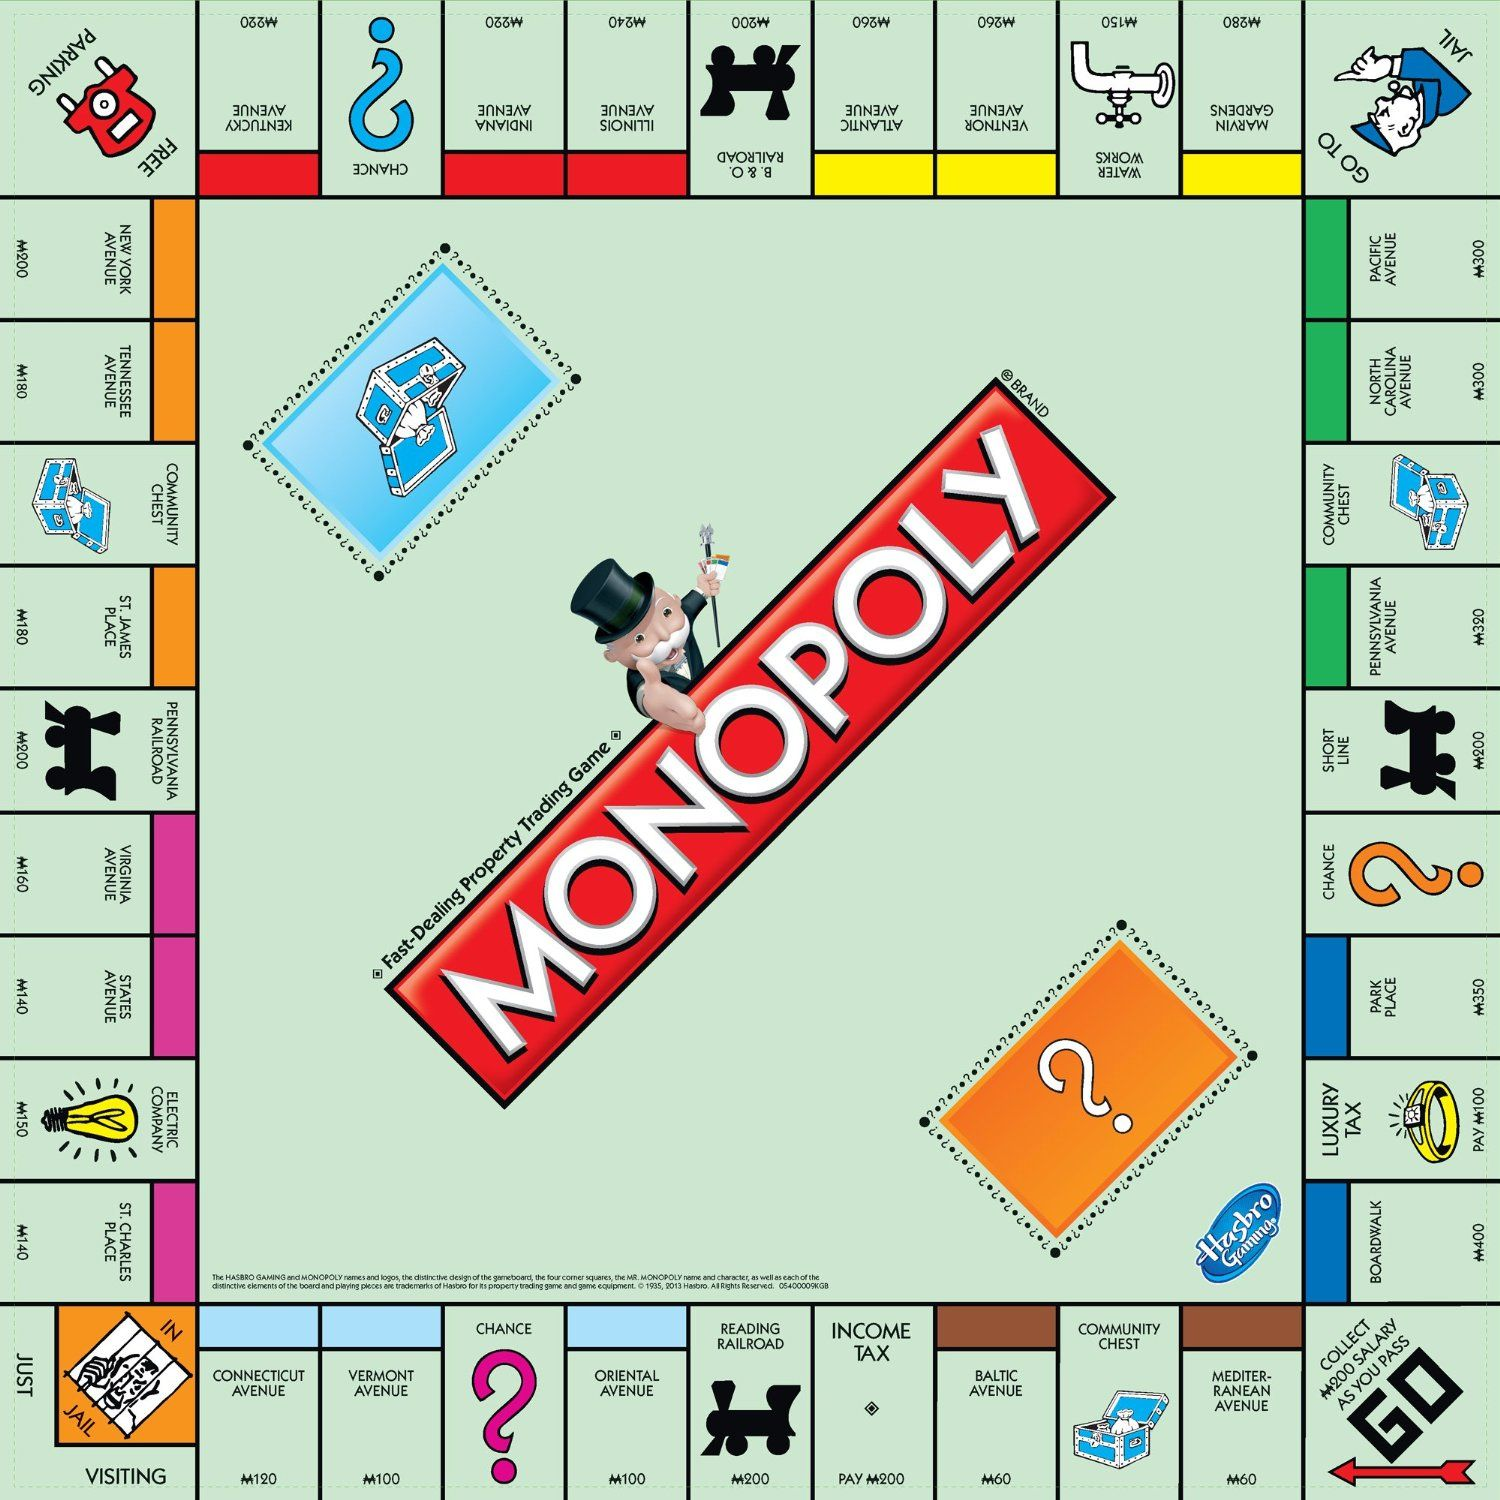
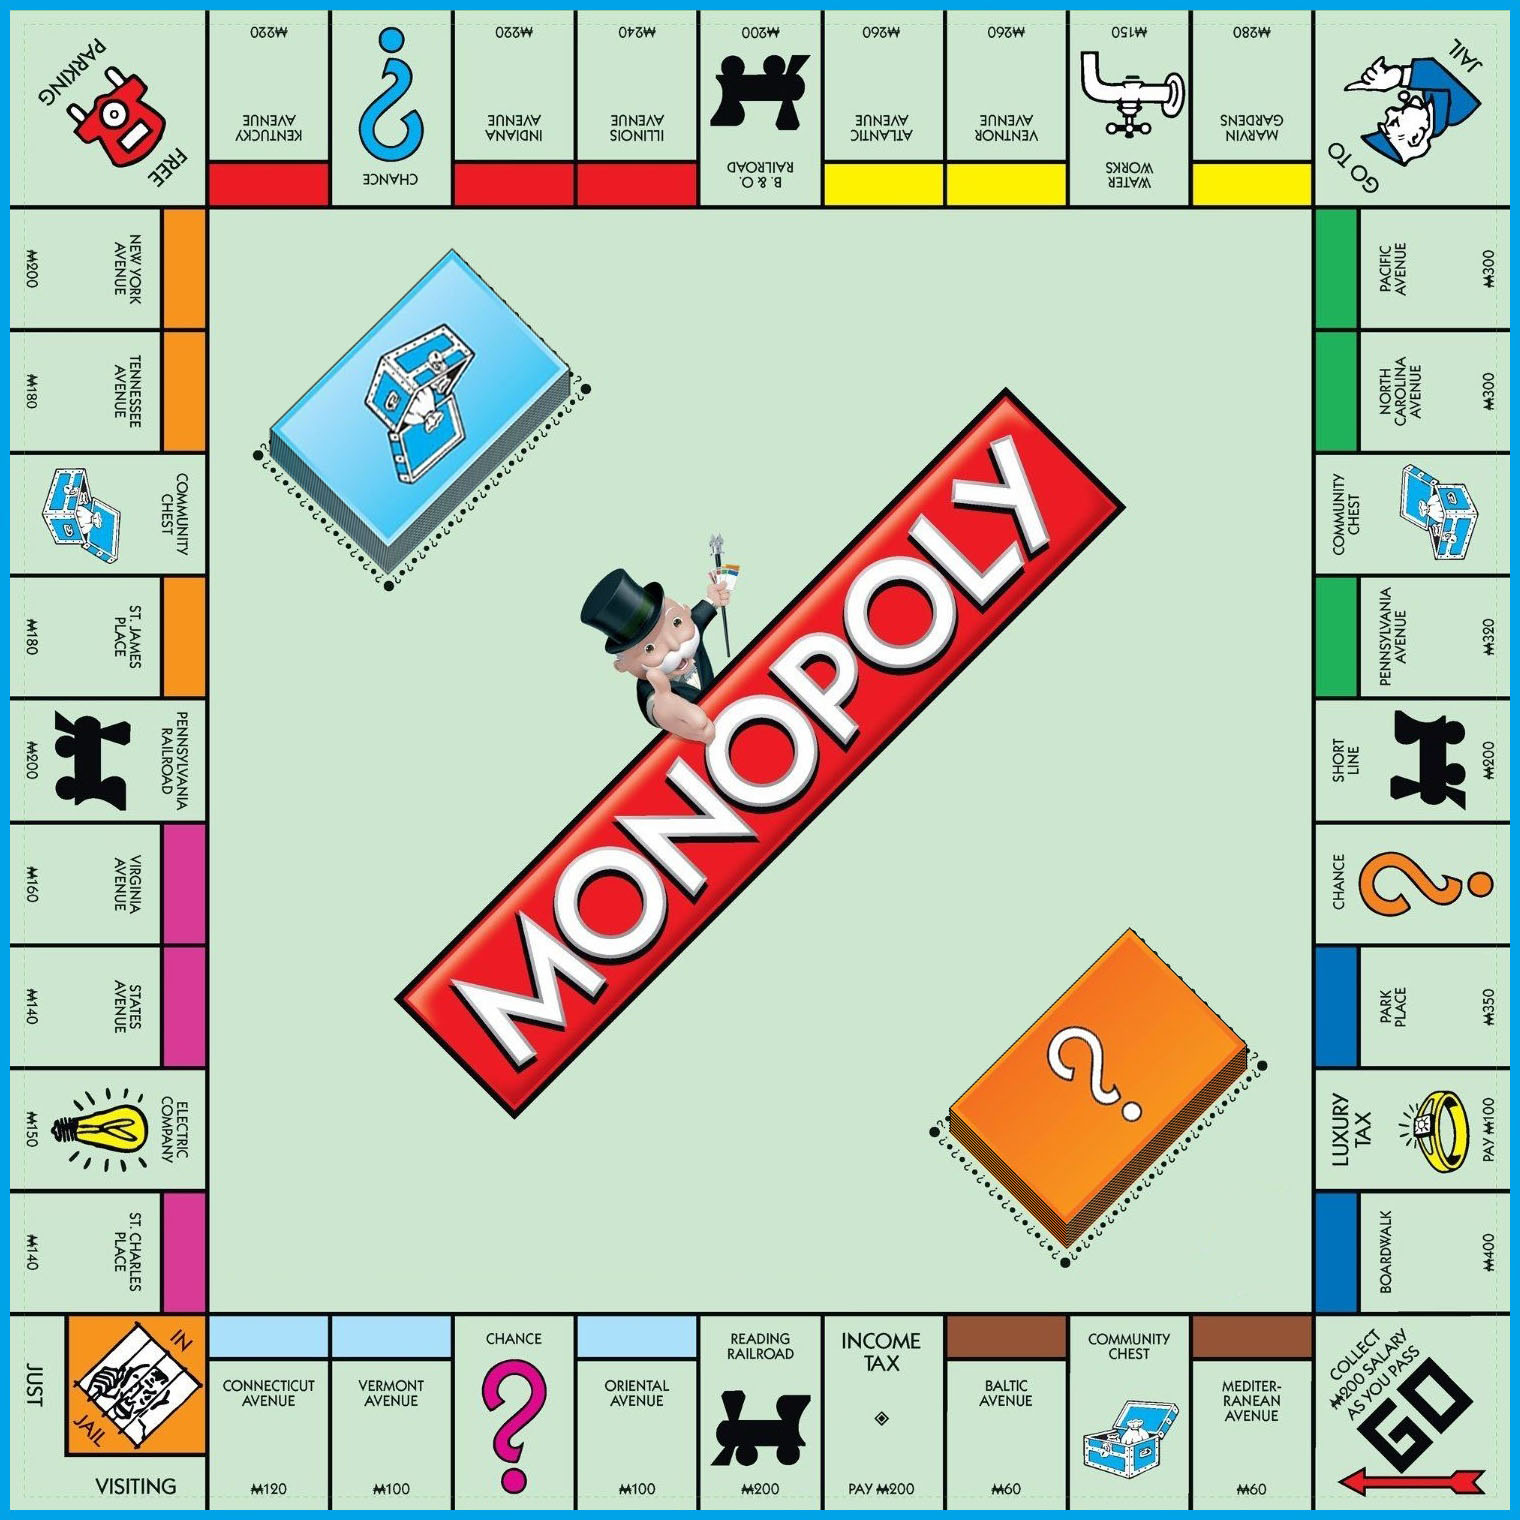
position shift

diff --git a/client/src/styles/LobbyPage.css b/client/src/styles/LobbyPage.css
@@ -1,7 +1,11 @@
+#board-container {
+    transform: translateX(-25%);
+}
+
 #AtlanticAvenue {
     position: absolute;
     width: 75px;
-    height: 120px;
+    height: 123px;
     top: 0%;
     left: 54%;
 }
@@ -13,9 +17,9 @@
 #BandORailroad {
     position: absolute;
     width: 75px;
-    height: 120px;
+    height: 123px;
     top: 0%;
-    left: 46%;
+    left: 45.9%;
 }
 
 #BandORailroad:hover {
@@ -25,9 +29,9 @@
 #BalticAvenue {
     position: absolute;
     width: 75px;
-    height: 120px;
-    top: 86.5%;
-    left: 62.2%;
+    height: 123px;
+    top: 86%;
+    left: 62%;
 }
 
 #BalticAvenue:hover {
@@ -36,10 +40,10 @@
 
 #Boardwalk {
     position: absolute;
-    width: 120px;
+    width: 123px;
     height: 75px;
-    top: 78.2%;
-    left: 87%;
+    top: 77.8%;
+    left: 86.3%;
 }
 
 #Boardwalk:hover {
@@ -49,9 +53,9 @@
 #ConnecticutAvenue {
     position: absolute;
     width: 75px;
-    height: 120px;
-    top: 86.5%;
-    left: 13.1%;
+    height: 123px;
+    top: 86%;
+    left: 13.5%;
 }
 
 #ConnecticutAvenue:hover {
@@ -60,9 +64,9 @@
 
 #ElectricCompany {
     position: absolute;
-    width: 120px;
+    width: 123px;
     height: 75px;
-    top: 70%;
+    top: 69.7%;
     left: 0%;
 }
 
@@ -73,9 +77,9 @@
 #IllinoisAvenue {
     position: absolute;
     width: 75px;
-    height: 120px;
+    height: 123px;
     top: 0%;
-    left: 37.5%;
+    left: 37.7%;
 }
 
 #IllinoisAvenue:hover {
@@ -85,9 +89,9 @@
 #IndianaAvenue {
     position: absolute;
     width: 75px;
-    height: 120px;
+    height: 123px;
     top: 0%;
-    left: 29.5%;
+    left: 29.7%;
 }
 
 #IndianaAvenue:hover {
@@ -97,9 +101,9 @@
 #KentuckyAvenue {
     position: absolute;
     width: 75px;
-    height: 120px;
+    height: 123px;
     top: 0%;
-    left: 13%;
+    left: 13.5%;
 }
 
 #KentuckyAvenue:hover {
@@ -109,9 +113,9 @@
 #MarvinGardens {
     position: absolute;
     width: 75px;
-    height: 120px;
+    height: 123px;
     top: 0%;
-    left: 78.5%;
+    left: 78.2%;
 }
 
 #MarvinGardens:hover {
@@ -121,9 +125,9 @@
 #MediterraneanAvenue {
     position: absolute;
     width: 75px;
-    height: 120px;
-    top: 86.5%;
-    left: 78.5%;
+    height: 123px;
+    top: 86%;
+    left: 78.3%;
 }
 
 #MediterraneanAvenue:hover {
@@ -132,9 +136,9 @@
 
 #NewYorkAvenue {
     position: absolute;
-    width: 120px;
+    width: 123px;
     height: 75px;
-    top: 13%;
+    top: 13.4%;
     left: 0%;
 }
 
@@ -144,10 +148,10 @@
 
 #NorthCarolinaAvenue {
     position: absolute;
-    width: 120px;
+    width: 123px;
     height: 75px;
-    top: 21.1%;
-    left: 87%;
+    top: 21.5%;
+    left: 86.3%;
 }
 
 #NorthCarolinaAvenue:hover {
@@ -157,9 +161,9 @@
 #OrientalAvenue {
     position: absolute;
     width: 75px;
-    height: 120px;
-    top: 86.5%;
-    left: 37.5%;
+    height: 123px;
+    top: 86%;
+    left: 37.8%;
 }
 
 #OrientalAvenue:hover {
@@ -168,10 +172,10 @@
 
 #PacificAvenue {
     position: absolute;
-    width: 120px;
+    width: 123px;
     height: 75px;
-    top: 13%;
-    left: 87%;
+    top: 13.5%;
+    left: 86.3%;
 }
 
 #PacificAvenue:hover {
@@ -180,10 +184,10 @@
 
 #ParkPlace {
     position: absolute;
-    width: 120px;
+    width: 123px;
     height: 75px;
-    top: 62%;
-    left: 87%;
+    top: 61.8%;
+    left: 86.3%;
 }
 
 #ParkPace:hover {
@@ -192,10 +196,10 @@
 
 #PennsylvaniaAvenue {
     position: absolute;
-    width: 120px;
+    width: 123px;
     height: 75px;
-    top: 37.5%;
-    left: 87%;
+    top: 37.6%;
+    left: 86.3%;
 }
 
 #PennsylvaniaAvenue:hover {
@@ -204,9 +208,9 @@
 
 #PennsylvaniaRailroad {
     position: absolute;
-    width: 120px;
+    width: 123px;
     height: 75px;
-    top: 45.5%;
+    top: 45.6%;
     left: 0%;
 }
 
@@ -217,8 +221,8 @@
 #ReadingRailroad {
     position: absolute;
     width: 75px;
-    height: 120px;
-    top: 86.5%;
+    height: 123px;
+    top: 86%;
     left: 45.9%;
 }
 
@@ -228,10 +232,10 @@
 
 #ShortLineRailroad {
     position: absolute;
-    width: 120px;
+    width: 123px;
     height: 75px;
     top: 45.5%;
-    left: 87%;
+    left: 86.3%;
 }
 
 #ShortLineRailroad:hover {
@@ -240,9 +244,9 @@
 
 #StCharlesPlace {
     position: absolute;
-    width: 120px;
+    width: 123px;
     height: 75px;
-    top: 78.2%;
+    top: 77.8%;
     left: 0%;
 }
 
@@ -252,7 +256,7 @@
 
 #StJamesPlace {
     position: absolute;
-    width: 120px;
+    width: 123px;
     height: 75px;
     top: 37.5%;
     left: 0%;
@@ -264,9 +268,9 @@
 
 #StatesAvenue {
     position: absolute;
-    width: 120px;
+    width: 123px;
     height: 75px;
-    top: 62%;
+    top: 61.8%;
     left: 0%;
 }
 
@@ -276,9 +280,9 @@
 
 #TennesseeAvenue {
     position: absolute;
-    width: 120px;
+    width: 123px;
     height: 75px;
-    top: 21.2%;
+    top: 21.5%;
     left: 0%;
 }
 
@@ -289,9 +293,9 @@
 #VentnorAvenue {
     position: absolute;
     width: 75px;
-    height: 120px;
+    height: 123px;
     top: 0%;
-    left: 62.3%;
+    left: 62%;
 }
 
 #VentnorAvenue:hover {
@@ -301,9 +305,9 @@
 #VermontAvenue {
     position: absolute;
     width: 75px;
-    height: 120px;
-    top: 86.5%;
-    left: 21.2%;
+    height: 123px;
+    top: 86%;
+    left: 21.5%;
 }
 
 #VermontAvenue:hover {
@@ -312,9 +316,9 @@
 
 #VirginiaAvenue {
     position: absolute;
-    width: 120px;
+    width: 123px;
     height: 75px;
-    top: 53.8%;
+    top: 53.7%;
     left: 0%;
 }
 
@@ -325,9 +329,9 @@
 #WaterWorks {
     position: absolute;
     width: 75px;
-    height: 120px;
+    height: 123px;
     top: 0%;
-    left: 70.4%;
+    left: 70.1%;
 }
 
 #WaterWorks:hover {

diff --git a/client/src/components/LobbyPage.js b/client/src/components/LobbyPage.js
@@ -56,7 +56,7 @@ const Lobby = () => {
                     <div className="row" style={{ width: "inherit" }}>
                         <div className="col s12" style={{ display: "flex", flexDirection: "column", alignItems: "center", position: "relative" }}>
                             { showThumbnail(imageSource) }
-                            <div style={{ position: "relative" }}>
+                            <div id="board-container" style={{ position: "relative"}}>
                                 <img alt="Cannot load board." src={boardImage} style={{width: "900px", height: "auto"}} />
                                 <div id="AtlanticAvenue" onMouseEnter={() => setImageSource(AtlanticAvenue)} onMouseLeave={() => setImageSource('')}></div> 
                                 <div id="BandORailroad" onMouseEnter={() => setImageSource(BandORailroad)} onMouseLeave={() => setImageSource('')}></div> 
